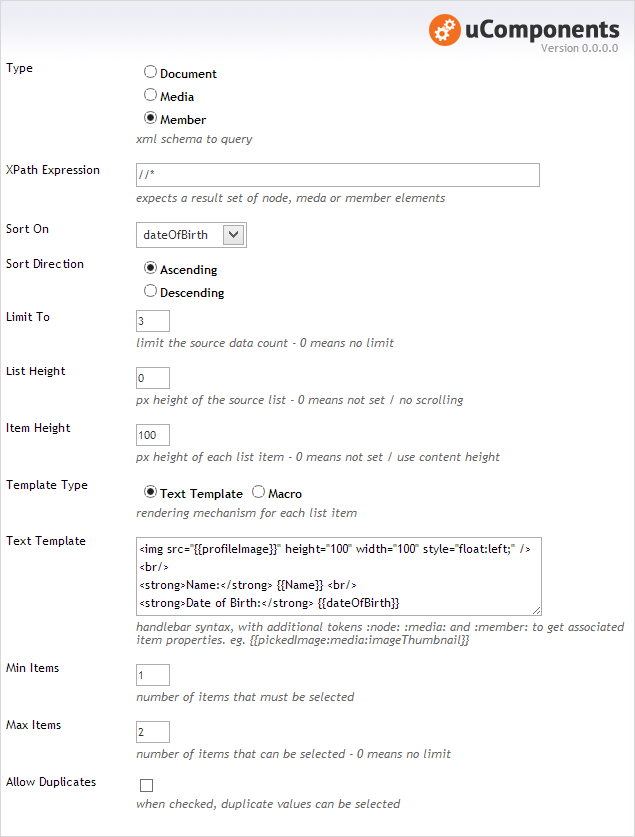
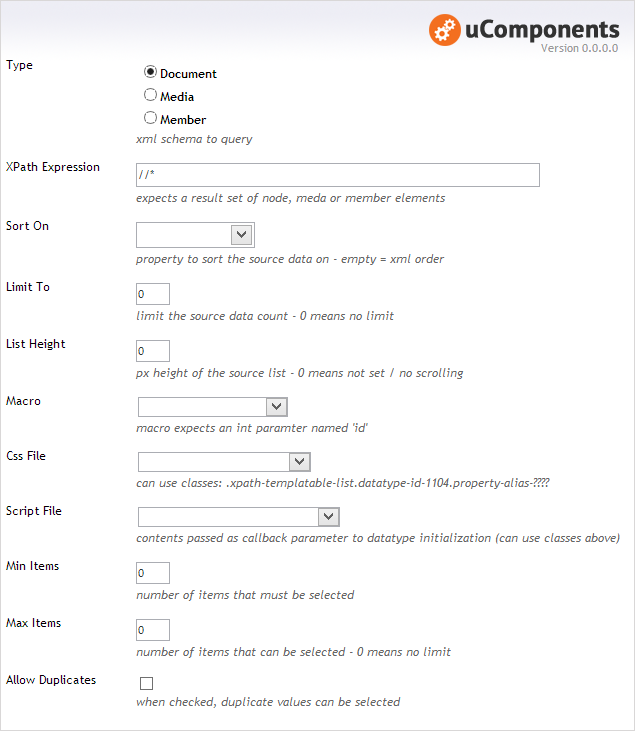
XPath Templatable List: updated documentation to reflect the changes in configuration options

diff --git a/data-types/xpath-templatable-list/index.md b/data-types/xpath-templatable-list/index.md
@@ -25,21 +25,11 @@ In the example above, the datatype has been configured to use the three oldest m
 
 **List Height** : Height in px, of the whole control - useful for when there is a sizeable amount of data in the source list; a scroll bar will be added if the height of all items exceeds this value.
 
-**Item Height** : Height in px of each item.
+**Macro** : (Optional) macro to use as the rendering mechanism for each item. The selected macro should have a parameter called 'id' of type number, and return the markup to be used for each item in the list - if the macro returns an empty string, then the item asscociated with that macro execution will be omited from the list - this allows additional configuration behaviour, eg. such as preventing items from being selectable if the current user doens't have permission etc...
 
-**Template Type** : Sets the template rendering mechanism to _Text Template_ or _Macro_.
+**Css File** : (Optional) css file used to style the list.
 
-**Text Template** : Shown when the _Template Type_ is set to _Text Template_. This textarea sets the markup to used for each item in the list - values can be injected using handlebars style syntax, and a simple token matching system allows for associated data to be rendered - for example if a node has a picker that selects a media item, then it's also possible to get at the data for this picked media item:
-
-eg. \{\{pickedMediaPropertyAlias:media:mediaPropertyAlias\}\}
-
-it's also possible to get associated members or nodes with using the same approach:
-
-eg. \{\{pickedMemberPropertyAlias:member:memberPropertyAlias\}\}
-or  \{\{pickedNodeProprtyAlias:node:nodePropertyAlias\}\}
-	
-
-**Macro Template** : Shown when the _Template Type_ is set to _Macro_, this field is a drop down list of all available macros. The selected macro should have a parameter called 'id' of type number, and return the markup to be used for each item in the list - if the macro returns an empty string, then the item asscociated with that macro execution will be omited from the list - this allows additional configuration behaviour, eg. such as preventing items from being selectable if the current user doens't have permission etc...
+**Script File** : (Optional) script to run after the data-type has finished it's initialization.
 
 **Min Items** : Number of items that must be selected. The Content Editor UI illustrates this value by drawing empty boxes as placeholders to indicate that items need to be selected.
 
